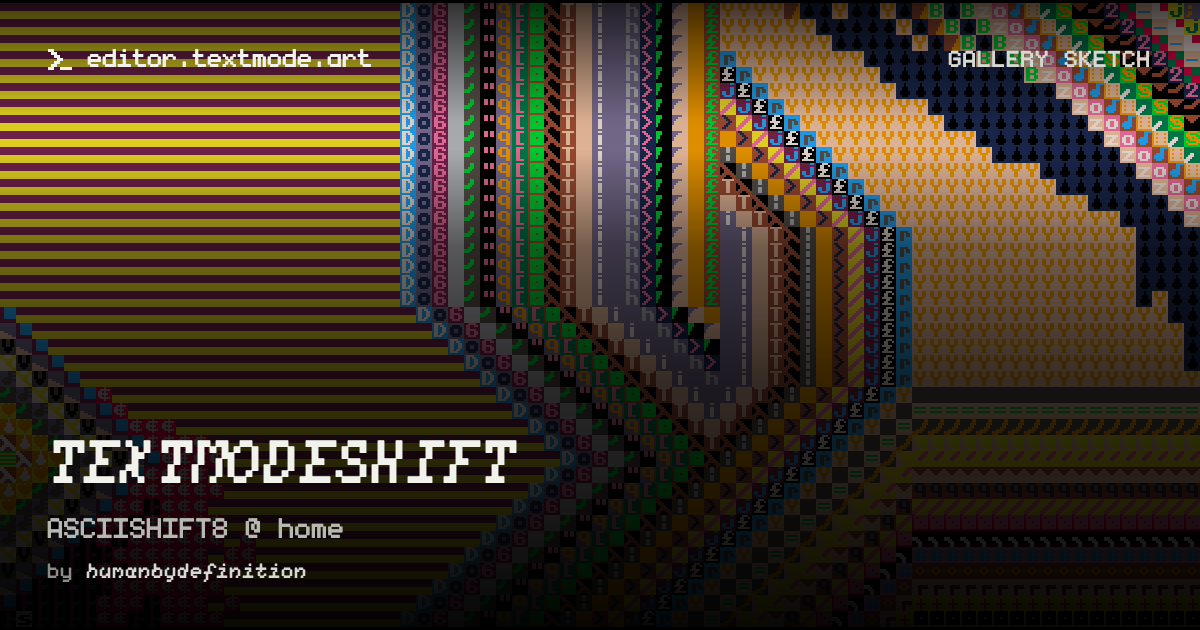
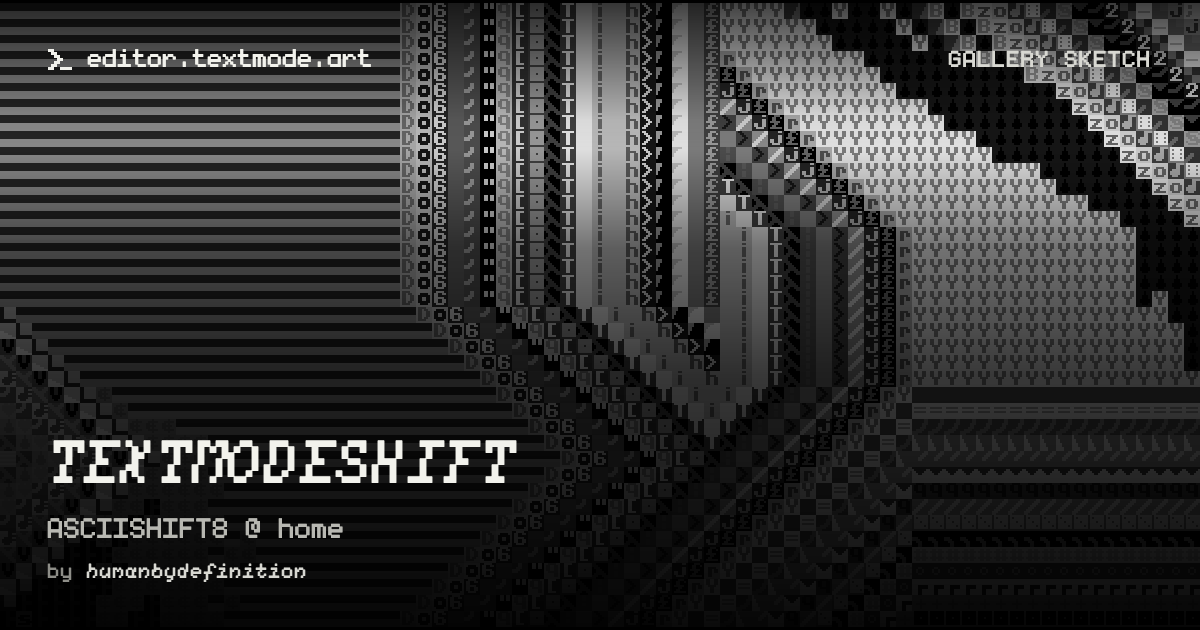
docs: updated textmodeshift gallery sketch

diff --git a/sketches/textmodeshift/sketch.js b/sketches/textmodeshift/sketch.js
@@ -1,20 +1,20 @@
-const PICO8 = [
+const PALETTE = [
 	'#000000',
-	'#1d2b53',
-	'#7e2553',
-	'#008751',
-	'#ab5236',
-	'#5f574f',
-	'#c2c3c7',
-	'#fff1e8',
-	'#ff004d',
-	'#ffa300',
-	'#ffec27',
-	'#00e436',
-	'#29adff',
-	'#83769c',
-	'#ff77a8',
-	'#ffccaa',
+	'#181818',
+	'#282828',
+	'#383838',
+	'#474747',
+	'#565656',
+	'#646464',
+	'#717171',
+	'#7e7e7e',
+	'#8c8c8c',
+	'#9b9b9b',
+	'#ababab',
+	'#bdbdbd',
+	'#d1d1d1',
+	'#e7e7e7',
+	'#ffffff',
 ];
 
 const RECTANGLE_COUNT = 8;
@@ -200,7 +200,7 @@ t.setup(async () => {
 	const availableGlyphs = t.font.characters.slice(0, GLYPH_CAPACITY);
 	glyphs = availableGlyphs.flatMap((glyph) => glyph.color.slice(0, 2));
 	glyphCount = availableGlyphs.length;
-	palette = PICO8.flatMap((color) => t.color(color).normalized.slice(0, 3));
+	palette = PALETTE.flatMap((color) => t.color(color).normalized.slice(0, 3));
 	[seedShader, pushShader] = await Promise.all([
 		t.createMaterialShader(SEED_SHADER),
 		t.createMaterialShader(PUSH_SHADER),
